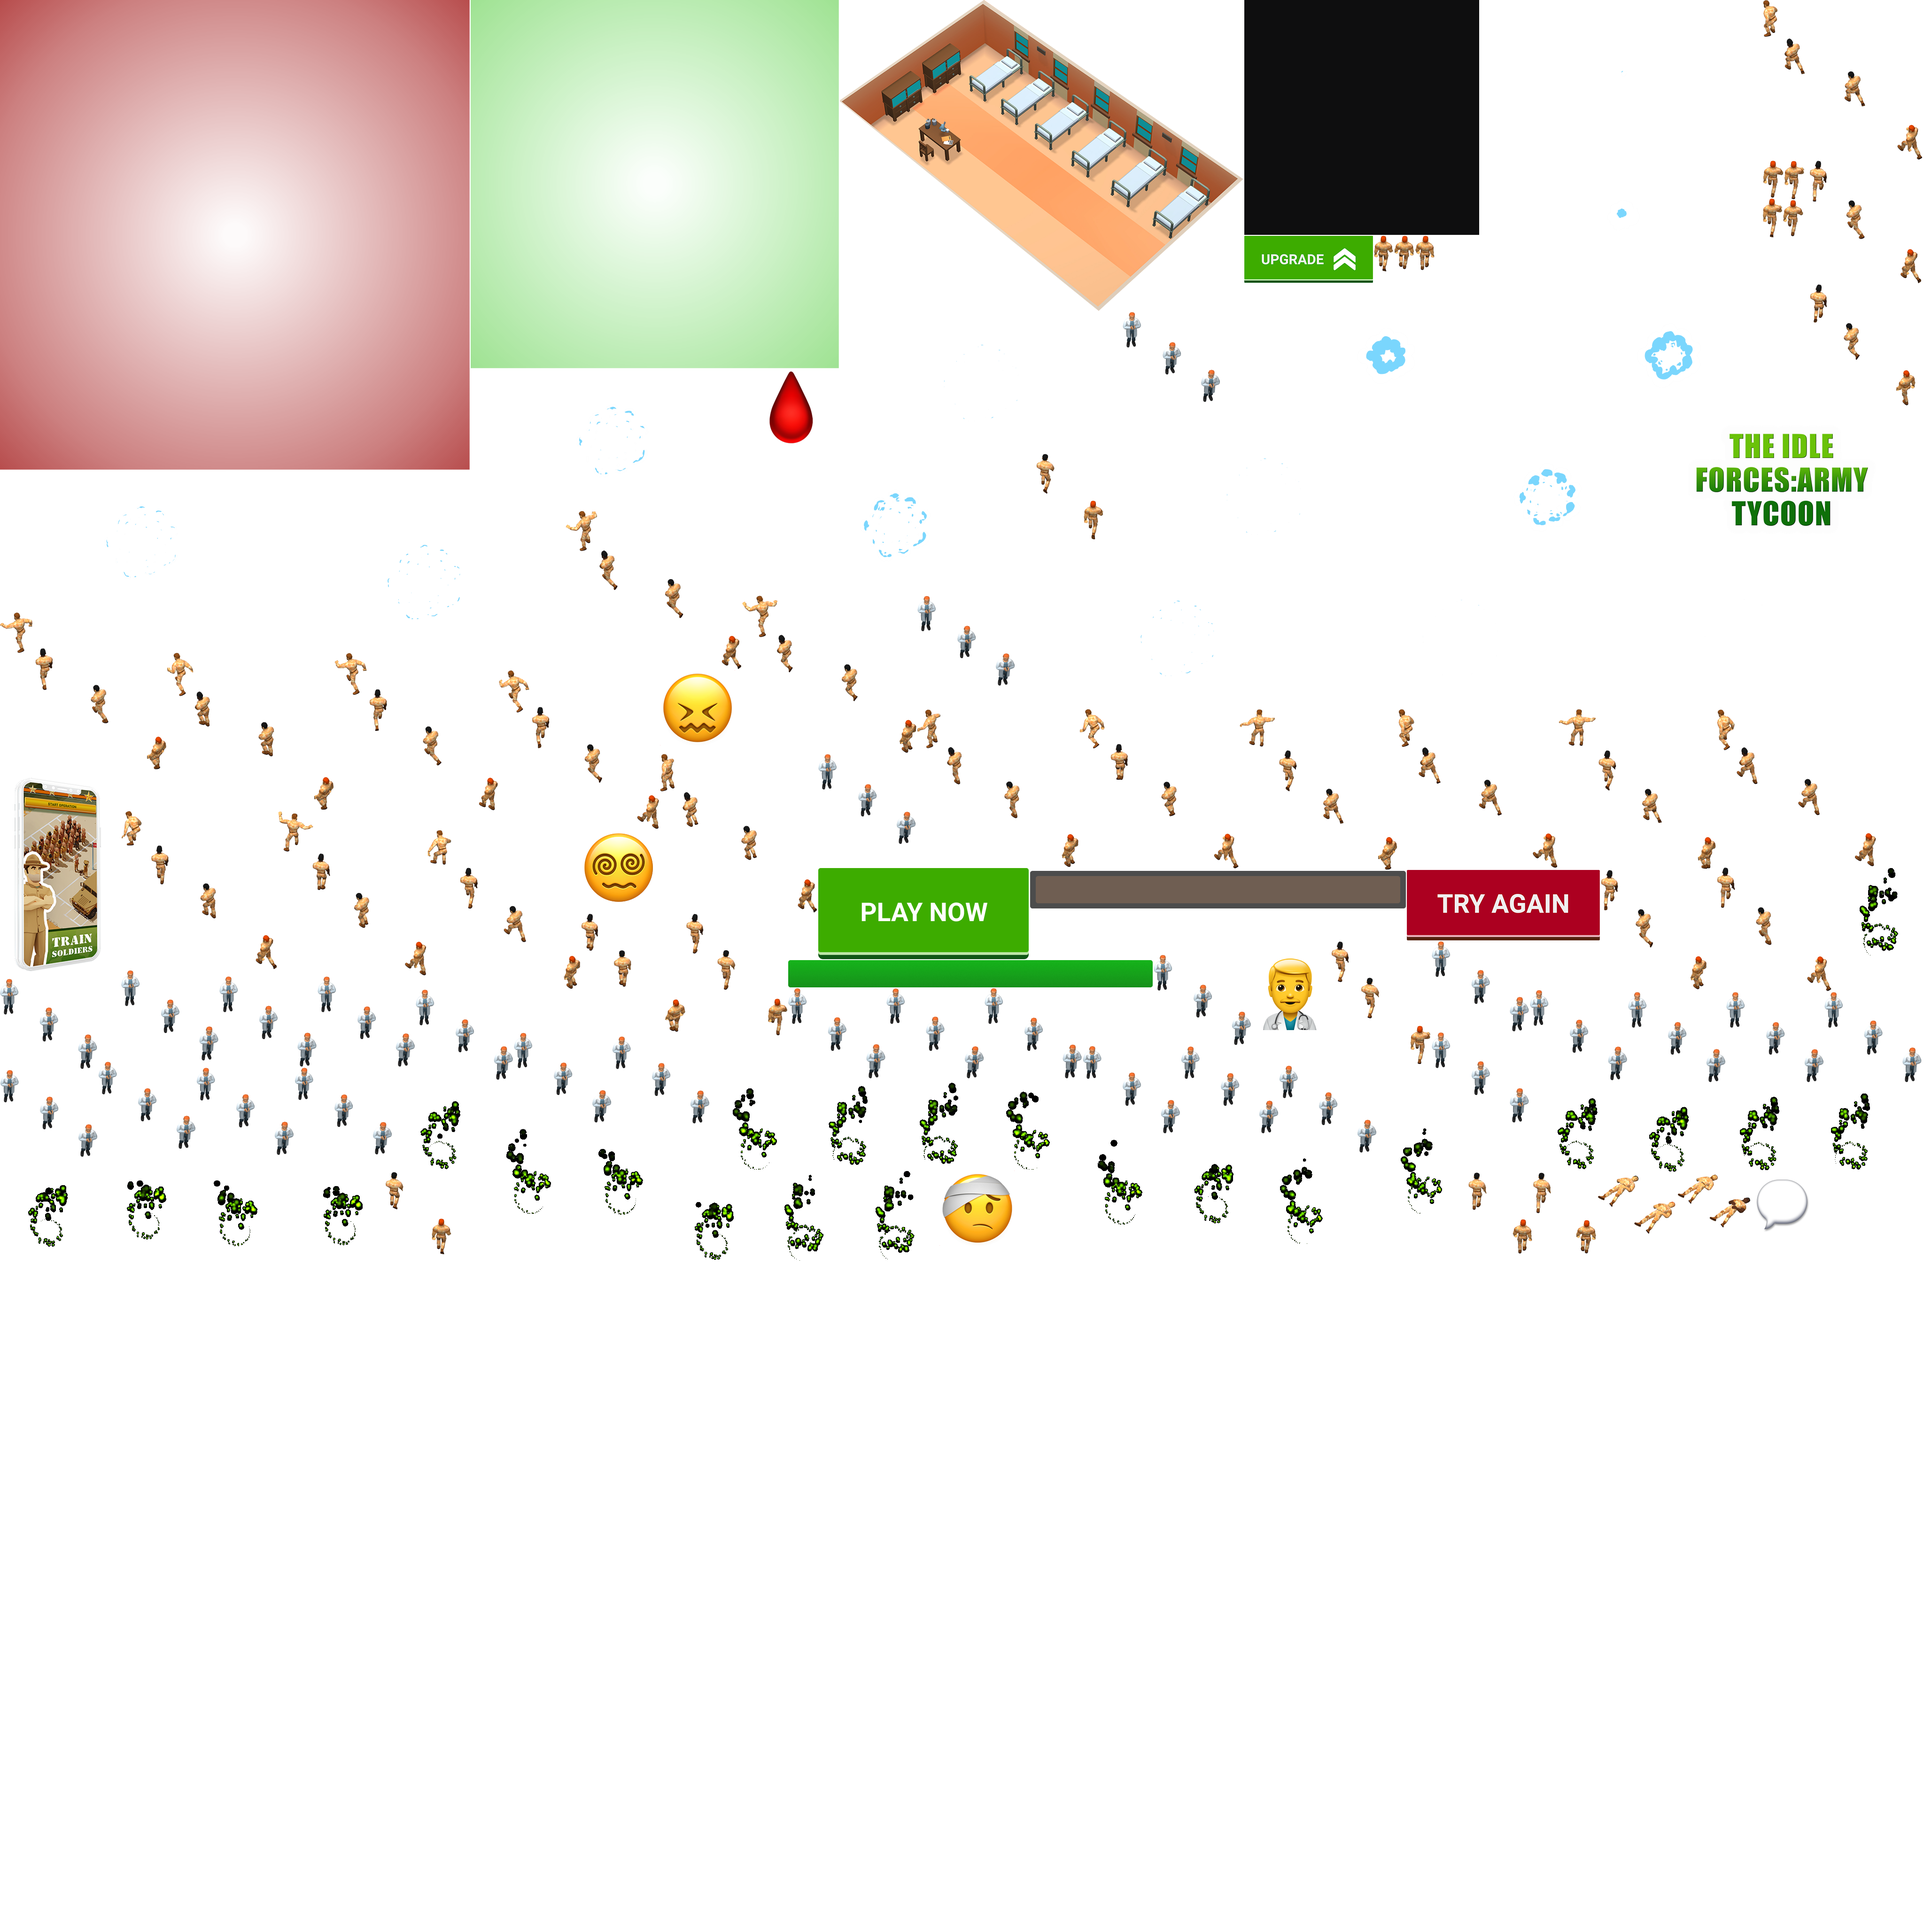
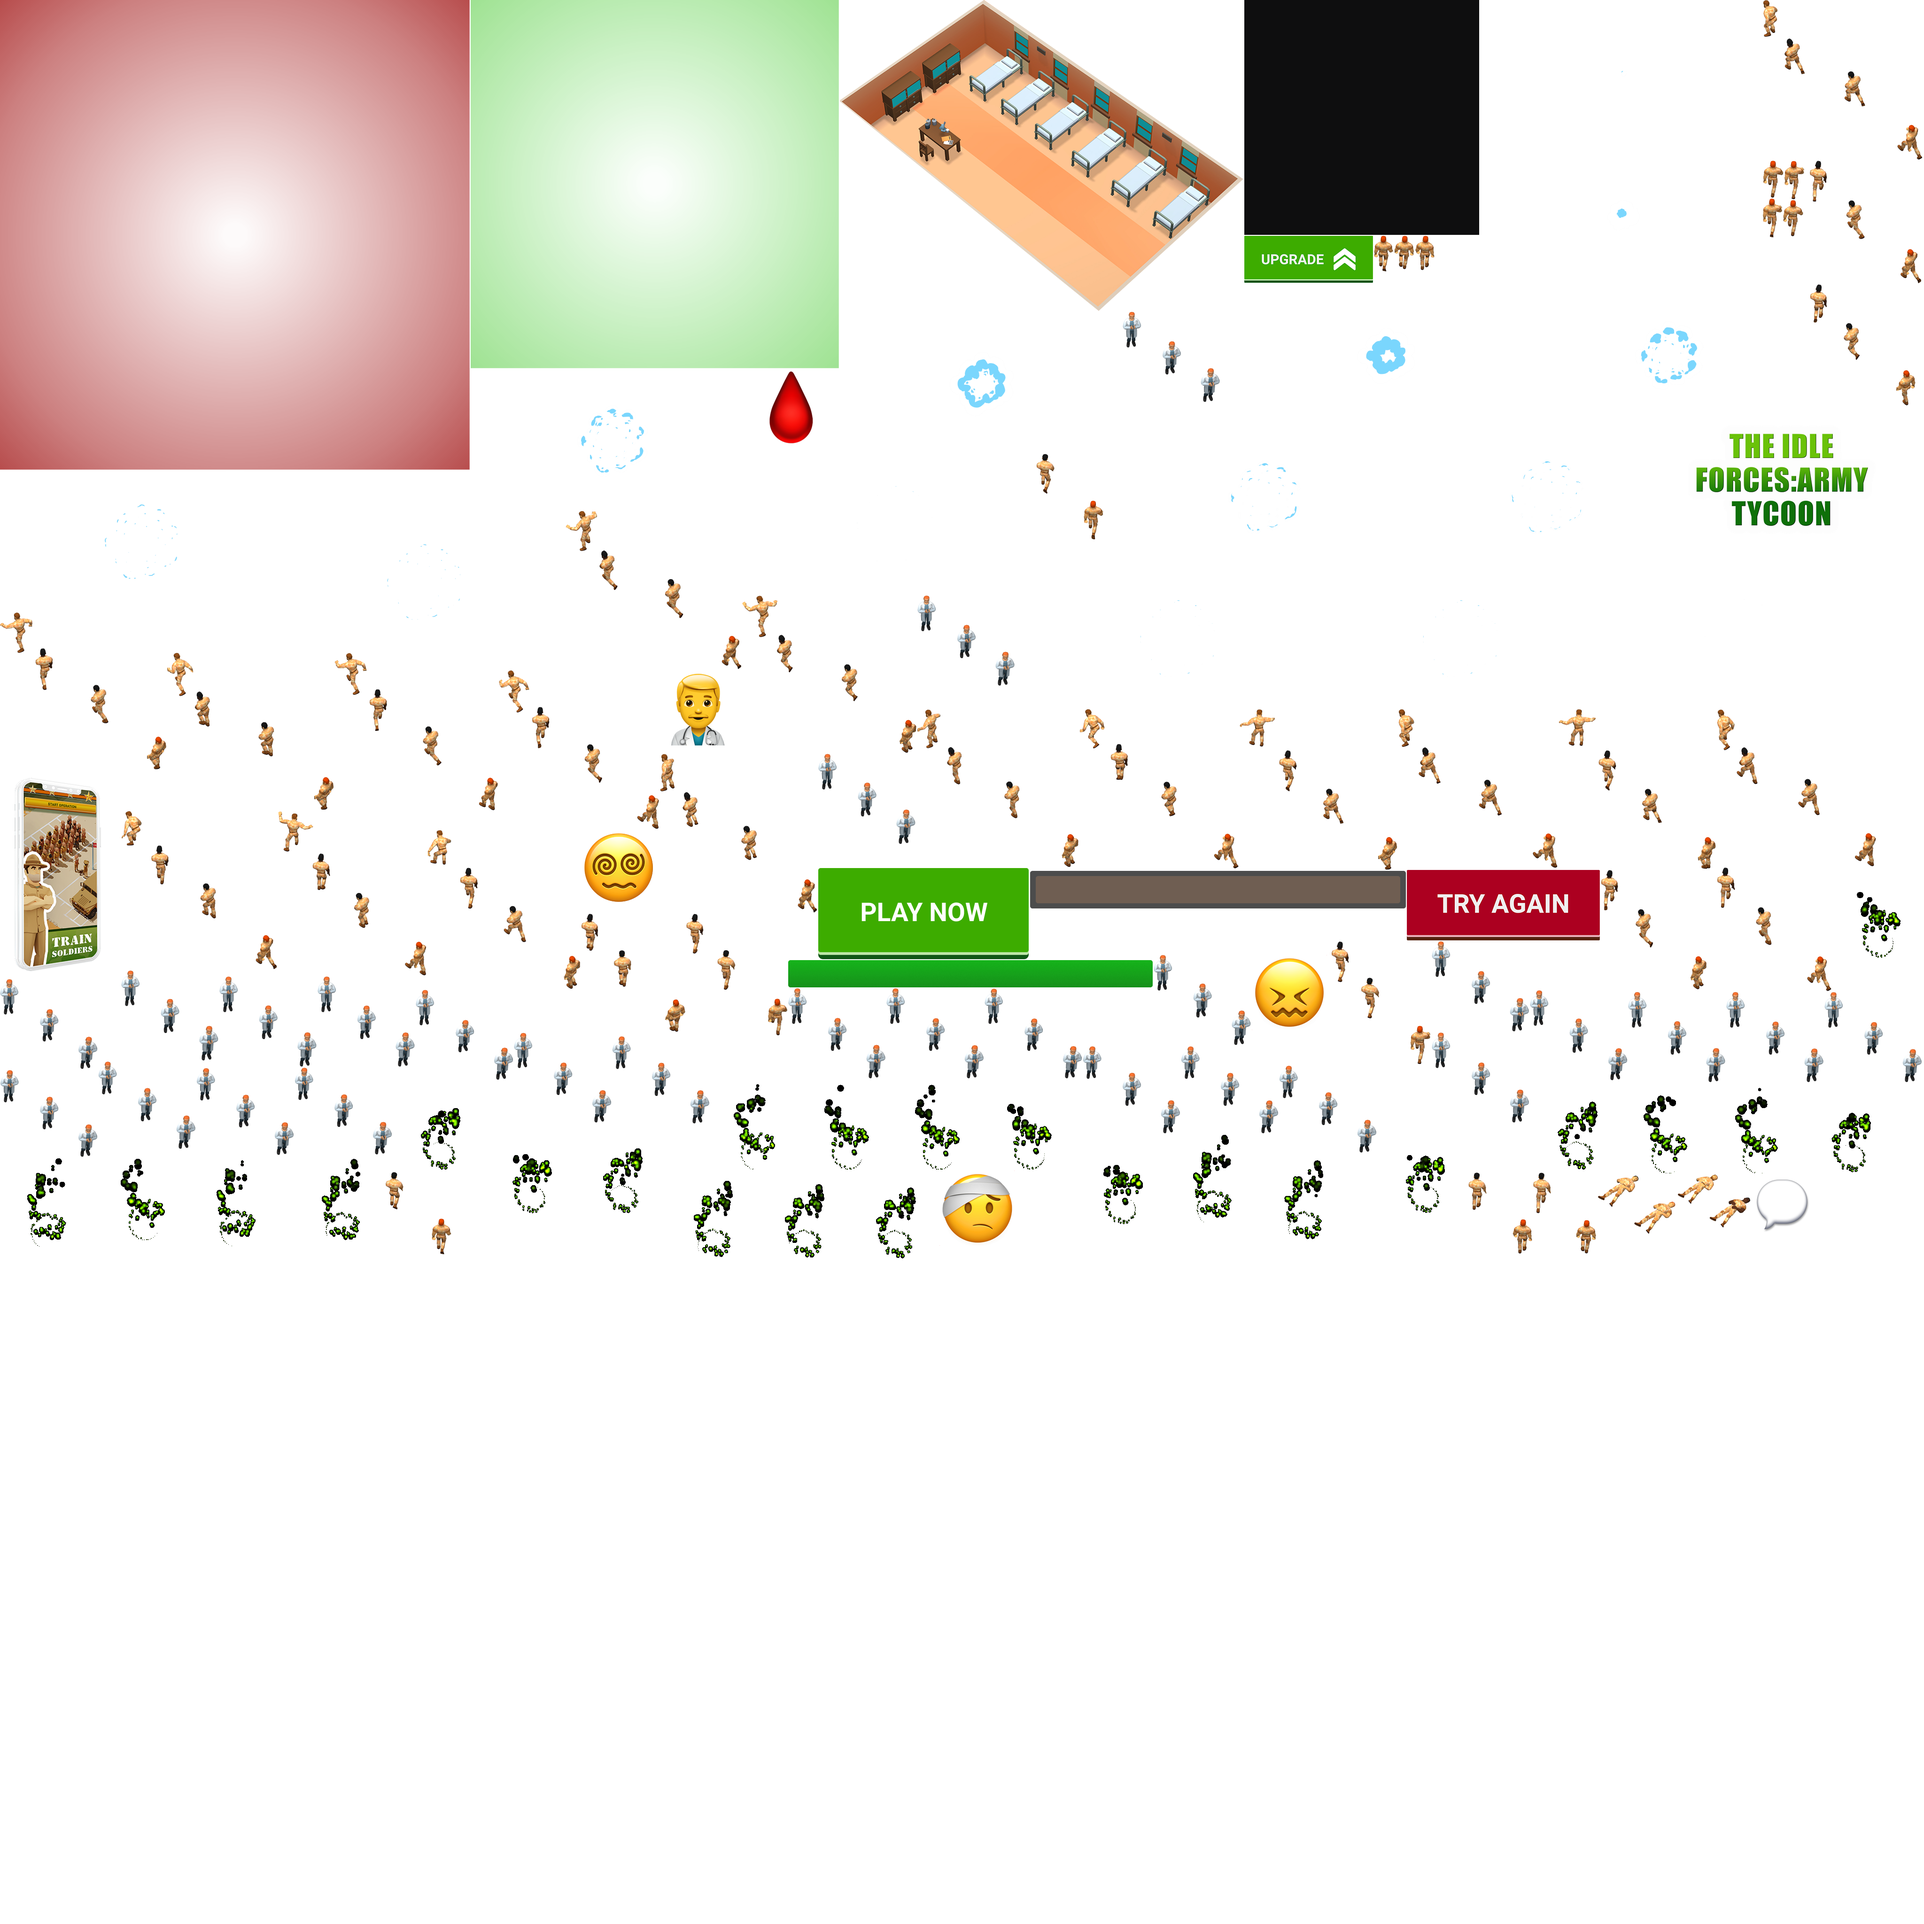
Add files via upload

diff --git a/index.html b/index.html
@@ -19,7 +19,7 @@
 var p; // shortcut to reference prototypes
 var lib={};var ss={};var img={};
 lib.ssMetadata = [
-		{name:"index_atlas_P_", frames: [[0,0,1000,1000],[1002,0,784,784],[2193,1936,640,95],[1604,786,160,160],[2995,1852,411,150],[2649,502,274,100],[3730,2500,128,128],[1742,1848,449,194],[3151,0,600,300],[3151,302,600,300],[2649,604,600,300],[3251,604,600,300],[2992,906,600,300],[1604,966,600,300],[1002,786,600,300],[0,1002,600,300],[602,1088,600,300],[2206,1208,600,300],[1788,664,600,300],[2390,906,600,300],[2808,1208,600,300],[3410,1208,600,300],[1405,1427,160,160],[1237,1767,160,160],[2665,2033,160,160],[2305,2227,207,186],[418,2273,207,186],[209,2260,207,186],[1303,2206,207,186],[2723,2268,207,186],[2514,2227,207,186],[0,2278,207,185],[627,2273,207,185],[1094,2199,207,191],[1953,1268,207,192],[1742,1605,207,192],[2390,664,207,192],[1887,2104,207,192],[3884,2112,207,192],[0,2084,207,192],[3048,2004,207,192],[3048,2198,207,192],[1678,2104,207,192],[258,2066,207,192],[467,2079,207,192],[2096,2104,207,192],[3257,2108,207,192],[885,2107,207,192],[2456,2033,207,192],[676,2079,207,192],[3466,2112,207,192],[3675,2112,207,192],[2193,1854,800,80],[2932,2392,192,192],[1030,2392,192,192],[2288,2415,192,192],[1224,2394,192,192],[403,2461,192,192],[2676,2456,192,192],[627,2460,192,192],[209,2448,192,192],[1418,2492,192,192],[2482,2415,192,192],[0,2465,192,192],[2094,2298,192,192],[3451,2306,192,192],[836,2301,192,192],[3257,2302,192,192],[3645,2306,192,192],[3839,2306,192,192],[1512,2298,192,192],[1706,2298,192,192],[1900,2298,192,192],[3901,1847,192,192],[1806,2492,192,192],[1612,2492,192,192],[2000,2492,160,160],[3594,906,400,231],[1678,2044,776,58],[3571,2500,157,118],[3400,2500,169,130],[1204,1088,374,337],[1580,1268,371,335],[356,1390,354,334],[3655,1510,339,335],[2977,1510,339,338],[3753,0,340,340],[1405,1605,335,338],[1953,1510,343,336],[0,1304,354,334],[712,1390,348,335],[1062,1427,341,338],[2298,1510,339,339],[258,1726,332,338],[910,1767,325,338],[2639,1510,336,342],[3318,1510,335,340],[592,1727,316,350],[3655,1847,244,263],[3853,342,237,261],[3408,1852,225,254],[3853,605,225,258],[1237,1945,222,252],[1461,1945,215,259],[2835,2004,211,262],[2206,966,143,183],[821,2495,140,176],[3126,2496,136,173],[3264,2496,134,173],[3753,342,44,79],[3799,342,42,82],[3753,423,41,83],[2925,502,41,76],[3013,502,41,73],[2968,502,43,71],[3796,426,43,77],[2649,0,500,500],[0,1640,256,442],[1788,0,859,662]]},
+		{name:"index_atlas_P_", frames: [[0,0,1000,1000],[1002,0,784,784],[2193,1936,640,95],[1604,786,160,160],[2995,1852,411,150],[2649,502,274,100],[3730,2500,128,128],[1742,1848,449,194],[3151,0,600,300],[3151,302,600,300],[2649,604,600,300],[1788,664,600,300],[3251,604,600,300],[1002,786,600,300],[2390,906,600,300],[2992,906,600,300],[0,1002,600,300],[602,1088,600,300],[2206,1208,600,300],[2808,1208,600,300],[1604,966,600,300],[3410,1208,600,300],[2665,2033,160,160],[1237,1767,160,160],[1405,1427,160,160],[209,2260,207,186],[1303,2206,207,186],[2305,2227,207,186],[2514,2227,207,186],[2723,2268,207,186],[418,2273,207,186],[627,2273,207,185],[0,2278,207,185],[1094,2199,207,191],[2096,2104,207,192],[0,2084,207,192],[885,2107,207,192],[3257,2108,207,192],[258,2066,207,192],[2456,2033,207,192],[1742,1605,207,192],[467,2079,207,192],[676,2079,207,192],[3466,2112,207,192],[1953,1268,207,192],[2390,664,207,192],[3675,2112,207,192],[1678,2104,207,192],[3048,2004,207,192],[1887,2104,207,192],[3884,2112,207,192],[3048,2198,207,192],[2193,1854,800,80],[1512,2298,192,192],[1900,2298,192,192],[1706,2298,192,192],[2094,2298,192,192],[3901,1847,192,192],[3645,2306,192,192],[2288,2415,192,192],[1030,2392,192,192],[2932,2392,192,192],[3839,2306,192,192],[836,2301,192,192],[3451,2306,192,192],[1224,2394,192,192],[3257,2302,192,192],[1806,2492,192,192],[1612,2492,192,192],[1418,2492,192,192],[209,2448,192,192],[2676,2456,192,192],[627,2460,192,192],[2482,2415,192,192],[0,2465,192,192],[403,2461,192,192],[2000,2492,160,160],[3594,906,400,231],[1678,2044,776,58],[3571,2500,157,118],[3400,2500,169,130],[1204,1088,374,337],[1580,1268,371,335],[356,1390,354,334],[3655,1510,339,335],[2977,1510,339,338],[3753,0,340,340],[1405,1605,335,338],[1953,1510,343,336],[0,1304,354,334],[712,1390,348,335],[1062,1427,341,338],[2298,1510,339,339],[258,1726,332,338],[910,1767,325,338],[2639,1510,336,342],[3318,1510,335,340],[592,1727,316,350],[3655,1847,244,263],[3853,342,237,261],[3408,1852,225,254],[3853,605,225,258],[1237,1945,222,252],[1461,1945,215,259],[2835,2004,211,262],[2206,966,143,183],[821,2495,140,176],[3126,2496,136,173],[3264,2496,134,173],[3753,342,44,79],[3799,342,42,82],[3753,423,41,83],[2925,502,41,76],[3013,502,41,73],[2968,502,43,71],[3796,426,43,77],[2649,0,500,500],[0,1640,256,442],[1788,0,859,662]]},
 		{name:"index_atlas_NP_", frames: [[0,0,2000,2000],[1082,2002,1024,1024],[0,2002,1080,1080]]}
 ];
 // symbols:
@@ -536,20 +536,23 @@ function getMCSymbolPrototype(symbol, nominalBounds, frameBounds) {
 }).prototype = getMCSymbolPrototype(lib.tryagain, new cjs.Rectangle(-189,-69,379.2,138.4), null);
 (lib.text_anim = function(mode,startPosition,loop) {
 	this.initialize(mode,startPosition,loop,{});
-	// Layer_5
+	// Layer_3
 	this.shape = new cjs.Shape();
[1 lines of base64/hex data omitted]
-	this.shape.setTransform(1.125,6.4);
[1 lines of base64/hex data omitted]
+	this.shape.setTransform(2.05,6.7);
 	this.timeline.addTween(cjs.Tween.get(this.shape).wait(1));
-	// Layer_4
+	// Layer_2
 	this.shape_1 = new cjs.Shape();
[1 lines of base64/hex data omitted]
-	this.shape_1.setTransform(0.975,6.7);
[1 lines of base64/hex data omitted]
+	this.shape_1.setTransform(-52.375,118.275);
 	this.shape_2 = new cjs.Shape();
[1 lines of base64/hex data omitted]
-	this.shape_2.setTransform(0.975,6.7);
-	this.timeline.addTween(cjs.Tween.get({}).to({state:[{t:this.shape_2},{t:this.shape_1}]}).wait(1));
-}).prototype = getMCSymbolPrototype(lib.text_anim, new cjs.Rectangle(-453.1,-119.3,906.3,238.6), null);
[1 lines of base64/hex data omitted]
+	this.shape_2.setTransform(207.725,-111.35);
+	this.shape_3 = new cjs.Shape();
[1 lines of base64/hex data omitted]
+	this.shape_3.setTransform(2.0559,6.7);
+	this.timeline.addTween(cjs.Tween.get({}).to({state:[{t:this.shape_3},{t:this.shape_2},{t:this.shape_1}]}).wait(1));
+}).prototype = getMCSymbolPrototype(lib.text_anim, new cjs.Rectangle(-448.4,-179.4,898.8,356.6), null);
 (lib.success_text = function(mode,startPosition,loop) {
 	this.initialize(mode,startPosition,loop,{});
 	// shape
@@ -1236,12 +1239,12 @@ p.nominalBounds = new cjs.Rectangle(-516,-516,1031.7,1031.7);
 	this.bar2 = new lib.progressbar();
 	this.bar2.name = "bar2";
 	this.bar2.parent = this;
-	this.bar2.setTransform(-776,0);
+	this.bar2.setTransform(-380,0);
 	var maskedShapeInstanceList = [this.bar2];
 	for(var shapedInstanceItr = 0; shapedInstanceItr < maskedShapeInstanceList.length; shapedInstanceItr++) {
 		maskedShapeInstanceList[shapedInstanceItr].mask = mask;
 	}
-	this.timeline.addTween(cjs.Tween.get(this.bar2).to({x:-703.35},299).to({x:0},60).wait(1));
+	this.timeline.addTween(cjs.Tween.get(this.bar2).to({x:-627.45},299).to({x:0},60).wait(1));
 	// bg
 	this.instance = new lib.firebarbg();
 	this.instance.parent = this;
@@ -1517,7 +1520,7 @@ p.nominalBounds = new cjs.Rectangle(-597,-510,1382.1,1020);
 	this.healthbar.setTransform(0,40);
 	this.timeline.addTween(cjs.Tween.get(this.healthbar).wait(1).to({y:259.45},13,cjs.Ease.backOut).wait(1).to({y:40},14,cjs.Ease.backIn).wait(1));
 }).prototype = p = new cjs.MovieClip();
-p.nominalBounds = new cjs.Rectangle(-1164,0,1564,321.4);
+p.nominalBounds = new cjs.Rectangle(-768,0,1168,321.4);
 (lib.plash_anim = function(mode,startPosition,loop) {
 	this.initialize(mode,startPosition,loop,{});
 	// timeline functions:
@@ -1737,6 +1740,7 @@ p.nominalBounds = new cjs.Rectangle(-2048,-2048,4096,4096);
 		var upgradeSFX = new Audio('upgrade.mp3');
 		var successSFX = new Audio('success.mp3');
 		musicBG.loop = true;
+		musicBG.play();
 		window.addEventListener('upgrade', function () {
 			upgradeSFX.play();
 		});
@@ -1762,6 +1766,7 @@ p.nominalBounds = new cjs.Rectangle(-2048,-2048,4096,4096);
 		healthbar.gotoAndStop(0);
 		button.clickable = false;
 		var counter = 0;
+		var speed = 0;
 		window.addEventListener('makeClickable', function () {
 			if (counter == 0) {
 				button.gotoAndPlay(1);
@@ -1769,22 +1774,17 @@ p.nominalBounds = new cjs.Rectangle(-2048,-2048,4096,4096);
 			button.clickable = true;
 		});
 		window.addEventListener('showUi', function () {
-			musicBG.play();
 			text.gotoAndPlay(1);
 			main.ui.gotoAndPlay(1);
-			healthbar.gotoAndPlay(1);
+			//healthbar.gotoAndPlay(1);
+			speed = -1.25;
 		});
 		window.addEventListener('hideUI', function () {
 			main.ui.gotoAndPlay(15);
 			main.gotoAndPlay(1);
 		});
 		window.addEventListener('onHeal', function () {
-			healthbar.gotoAndPlay(300);
-		});
-		window.addEventListener('fail', function () {
-			if (counter < 3) {
-				main.gotoAndPlay(85);
-			}
+			//healthbar.gotoAndPlay(300);
 		});
 		button.addEventListener('click', function () {
 			if (button.clickable) {
@@ -1792,17 +1792,20 @@ p.nominalBounds = new cjs.Rectangle(-2048,-2048,4096,4096);
 				if (counter == 2) {
 					scene.gotoAndPlay(125);
 					counter++;
+					speed = 3;
 					button.clickable = false;
 					button.gotoAndPlay(18);
 				}
 				if (counter == 1) {
 					scene.gotoAndPlay(105);
 					counter++;
+					speed = 1.5;
 					button.clickable = false;
 				}
 				if (counter == 0) {
 					scene.gotoAndPlay(85);
 					counter++;
+					speed = 0.5;
 					button.clickable = false;
 				}
 			}
@@ -1834,6 +1837,31 @@ p.nominalBounds = new cjs.Rectangle(-2048,-2048,4096,4096);
 			resizeCanvas(canvas, ctx, document.documentElement.clientWidth, document.documentElement.clientHeight);
 		}
 		onResize();
+		createjs.Ticker.addEventListener('tick', moveHealthBar);
+		function moveHealthBar() {
+			startX = healthbar.bar2.x;
+			if (startX < 0 && startX > (-776 * main.scaleX)) {
+				healthbar.bar2.x = startX + (1 * speed * main.scaleX);
+			}
+			if (startX <= (-776 * main.scaleX)) {
+				callFail();
+			}
+			if (startX >= 0) {
+				callWin();
+			}
+		}
+		function callFail() {
+			createjs.Ticker.removeEventListener('tick', moveHealthBar);
+			if (counter < 3) {
+				main.gotoAndPlay(85);
+			}
+		}
+		function callWin() {
+			createjs.Ticker.removeEventListener('tick', moveHealthBar);
+			if (counter >= 3) {
+				main.gotoAndPlay(1);
+			}
+		}
 		createjs.Ticker.addEventListener('tick', visibilityChangeHandler);
 		function visibilityChangeHandler() {
 			if (document.hidden) {
@@ -1872,8 +1900,8 @@ lib.properties = {
 	color: "#FFFFFF",
 	opacity: 1.00,
 	manifest: [
-		{src:"index_atlas_P_.png?1678709455877", id:"index_atlas_P_"},
-		{src:"index_atlas_NP_.jpg?1678709455878", id:"index_atlas_NP_"}
+		{src:"index_atlas_P_.png?1678781499554", id:"index_atlas_P_"},
+		{src:"index_atlas_NP_.jpg?1678781499554", id:"index_atlas_NP_"}
 	],
 	preloads: []
 };
